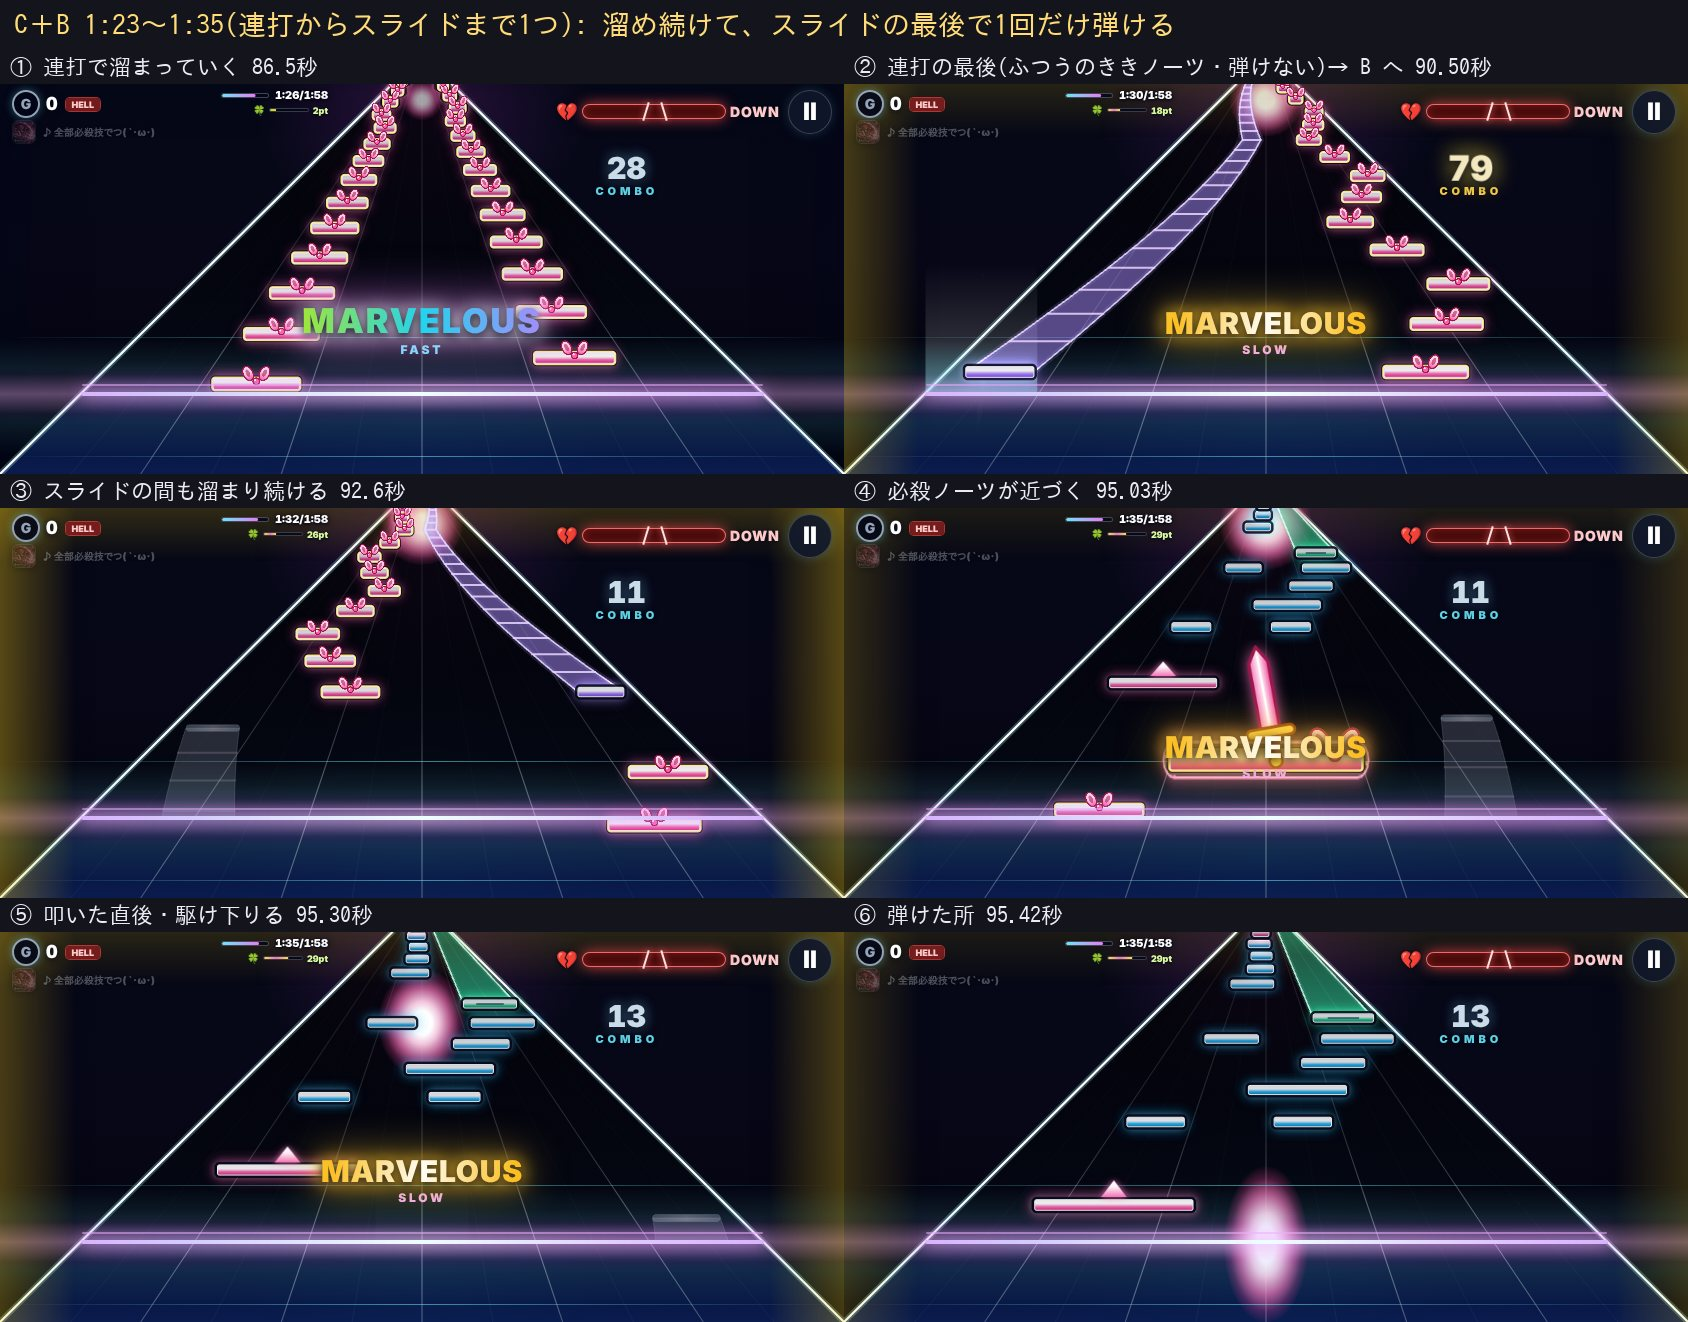
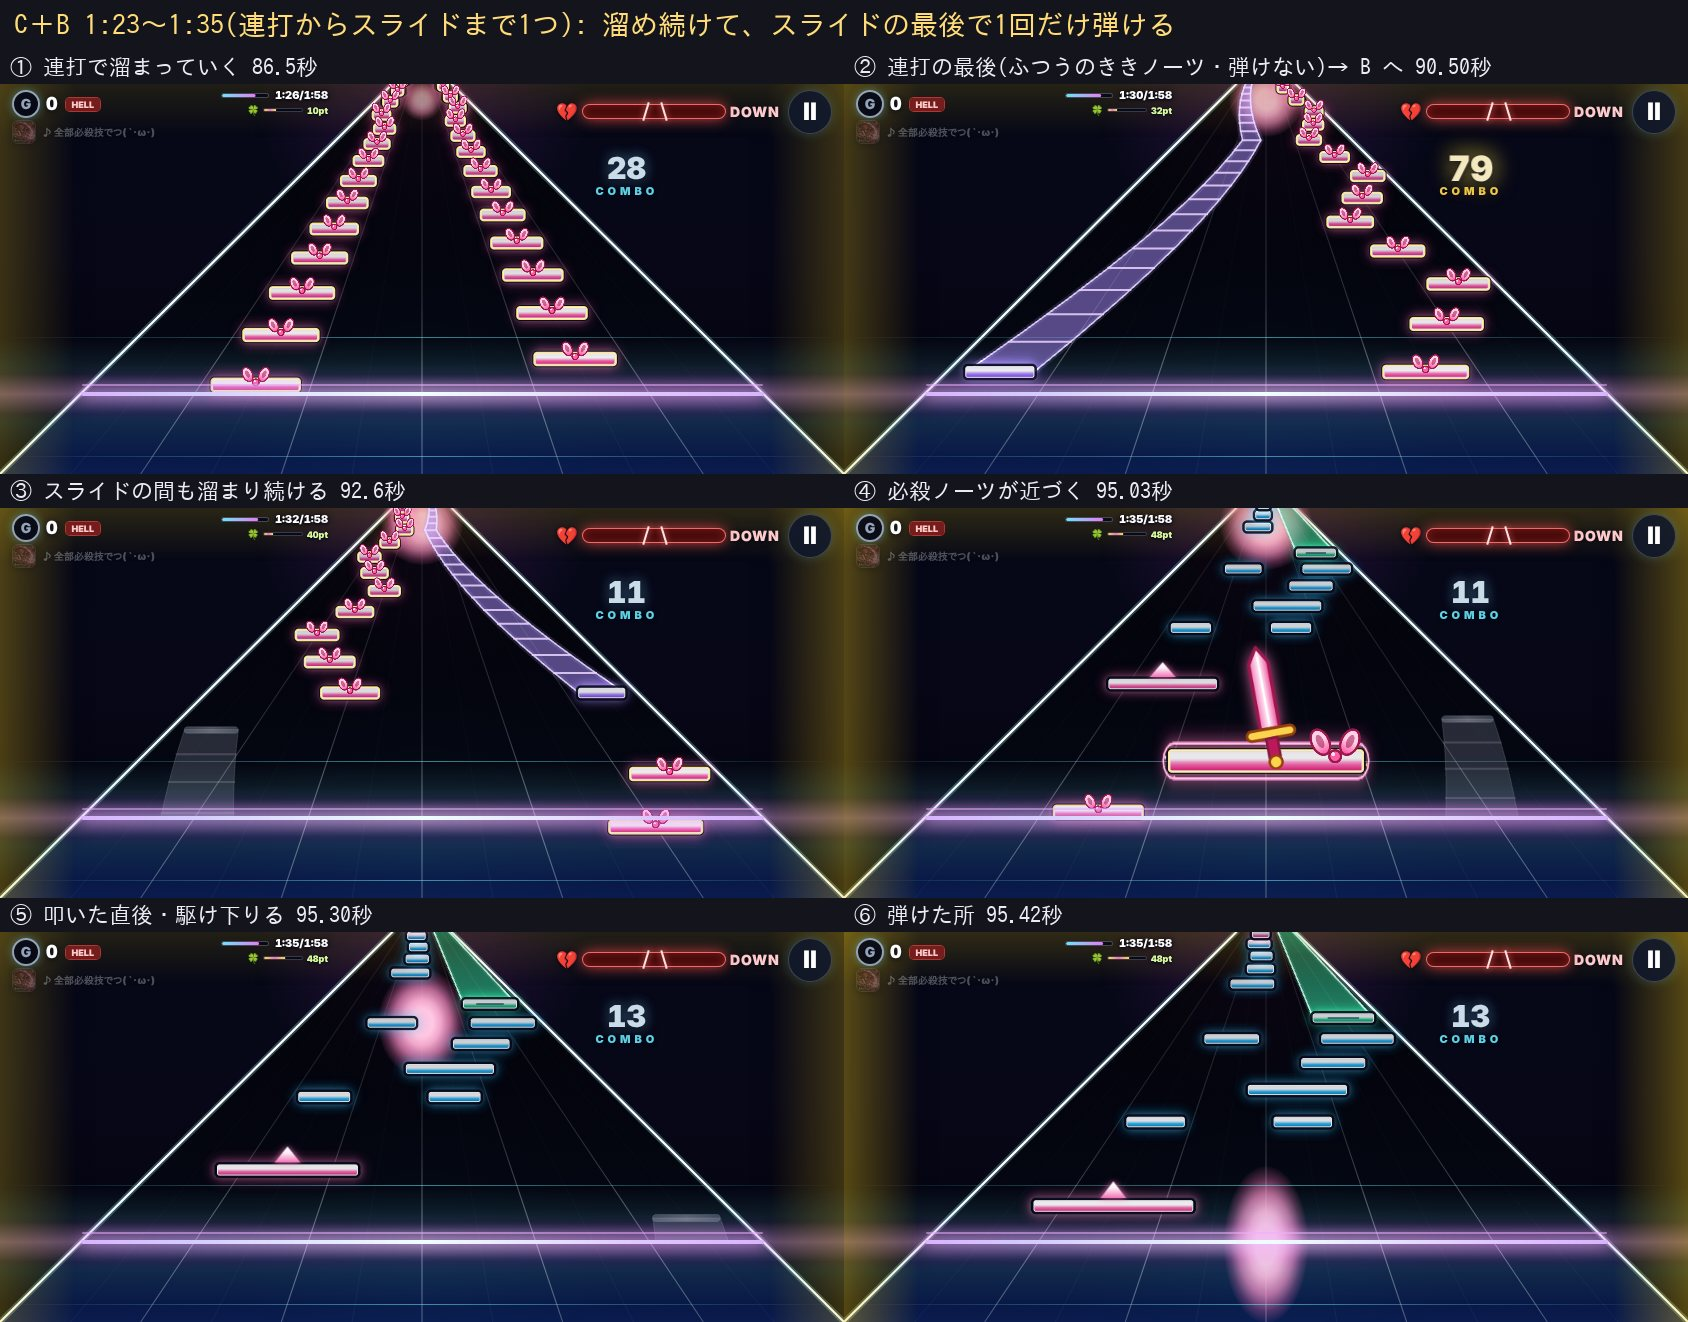
ビート部: 光の玉・駆け下りる光・弾ける光を桜色だけにする(r1119-141・社長「ピンクだけ」)
Claude-Session: https://claude.ai/code/session_0113GBaBoZkDbmc8cVv5uFx4

diff --git a/monster-hero/index.html b/monster-hero/index.html
@@ -102,7 +102,7 @@ var GAME_BUILD = '677fbe0b171c';
 window.__mhGameBuild = GAME_BUILD;
 // 画面に出す版の日時(BUILD_DATE)。本体の中に書くと、ビルドのたびに本体の中身(と GAME_BUILD)が変わり、
 // 事前ダウンロードにためた本体が使えなくなるので、ここから渡す。tools/stamp-version.js が version.json と同じ値を打つ
-window.__mhBuildDate = '2026-11-23 17:44';
+window.__mhBuildDate = '2026-11-23 17:47';
 // 起動でいちばん大きいのは本体JS(約2.7MB)。いちばん後ろで読むため、そこへ来ると
 // ゲージが止まって見えていた。先に取りはじめて、受け取ったバイト数をそのまま出す。
 // ここで取ったものはブラウザのキャッシュに載るので、下の <script> は取り直さない
@@ -1367,7 +1367,7 @@ window.__mhBoot.prefetch('game-system.compiled.js', 'game-system.compiled.js?v='
      ノーツより下の層(z-index:1)。軽量モード・演出の量が少なめでも出す(社長「重くならないやつ」なので要素は2つだけ) */
   [data-rhythm-charge-fx]{position:absolute;inset:0;z-index:1;pointer-events:none;overflow:hidden}
   [data-rhythm-charge-fx] b,[data-rhythm-charge-fx] em{position:absolute;left:50%;top:4%;width:clamp(52px,20vmin,150px);height:clamp(52px,20vmin,150px);border-radius:50%;
-    background:radial-gradient(circle,#fff 0 16%,rgba(253,207,232,.95) 28%,rgba(244,114,182,.7) 46%,rgba(236,72,153,.28) 60%,rgba(236,72,153,0) 72%);
+    background:radial-gradient(circle,#ffc8e3 0 18%,rgba(255,176,214,.95) 30%,rgba(249,140,196,.72) 46%,rgba(244,114,182,.3) 60%,rgba(244,114,182,0) 72%);/* 社長「ピンクだけ」: 白・金は混ぜない(桜色でそろえる) */
     opacity:0;transform:translate(-50%,-50%) scale(.2)}
   [data-rhythm-charge-fx] b{transition:transform .14s ease-out,opacity .3s ease-out}
   @media (prefers-reduced-motion:reduce){[data-rhythm-climax] b::before{animation:none}}

diff --git a/docs/progress/beat/zenbu-hell-charge-fx/README.md b/docs/progress/beat/zenbu-hell-charge-fx/README.md
@@ -21,6 +21,7 @@
 - **必殺ノーツ**: 見た目だけ大きく(細いノーツは横2.6倍・縦1.9倍)。ノーツの上に**ピンクの剣**が乗って一緒に流れ、ノーツのまわりがピンクに脈打って光る(リボンは右上)。叩くと消える。
   剣は奥から来るノーツに大きくかぶらない大きさにした。画面の真ん中に文字は出さない
 - **叩いた瞬間**: 玉が道を判定ラインまで約0.16秒で駆け下り、横に弾けて約0.3秒で消える(溜めた量で大きさが変わる)。取り逃したら、その場で小さくしぼむ
+- **光の色はききのピンク(桜色)だけ**(社長「ピンクだけ」・白や金は混ぜない)。光の玉も駆け下りる光も弾ける光も同じ色
 - **光はすべてノーツより下の層**に出すので、ノーツは隠れない
 - 前の A の「道の色が変わる」「必殺技！の文字」はやめた
 - 重さ: 動くのは玉と駆け下りる光の2つの要素の transform・opacity だけ(絵・動画は足していない)。リボン・剣は最初に1回だけ焼いた絵を貼る(ノーツ1つにつき1〜2枚)。軽量モード・演出の量が少なめでも出す
